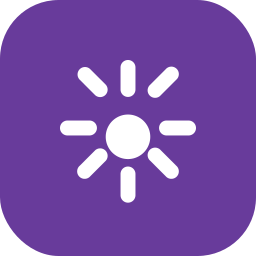
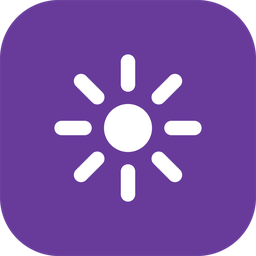
优化图标视觉效果

diff --git a/index.html b/index.html
@@ -5,6 +5,9 @@
   <meta name="viewport" content="width=device-width, initial-scale=1, viewport-fit=cover">
   <meta name="theme-color" content="#100f15">
   <title>YiPop Web · 消灭星星</title>
+  <link rel="icon" href="assets/icon.svg" type="image/svg+xml">
+  <link rel="icon" href="assets/favicon-32.png" type="image/png" sizes="32x32">
+  <link rel="apple-touch-icon" href="assets/apple-touch-icon.png">
   <style>
     * { box-sizing: border-box; }
 
@@ -793,7 +796,7 @@
     <div class="header-inner">
       <div class="brand" aria-label="YiPop Web">
         <div class="brand-mark" aria-hidden="true">
-          <svg class="brand-spark" viewBox="0 0 24 24"><path d="M12 1.8c.62 0 1.12.5 1.12 1.12v3.3a1.12 1.12 0 1 1-2.24 0v-3.3c0-.62.5-1.12 1.12-1.12Zm0 14.86a3.34 3.34 0 1 0 0-6.68 3.34 3.34 0 0 0 0 6.68ZM4.76 3.18a1.12 1.12 0 0 1 1.58 0l2.33 2.33a1.12 1.12 0 0 1-1.58 1.58L4.76 4.76a1.12 1.12 0 0 1 0-1.58Zm12.15 12.15 2.33 2.33a1.12 1.12 0 1 1-1.58 1.58l-2.33-2.33a1.12 1.12 0 1 1 1.58-1.58ZM1.8 12c0-.62.5-1.12 1.12-1.12h3.3a1.12 1.12 0 1 1 0 2.24h-3.3c-.62 0-1.12-.5-1.12-1.12Zm14.86 0c0-.62.5-1.12 1.12-1.12h3.3a1.12 1.12 0 1 1 0 2.24h-3.3c-.62 0-1.12-.5-1.12-1.12ZM7.09 15.33a1.12 1.12 0 0 1 1.58 1.58l-2.33 2.33a1.12 1.12 0 1 1-1.58-1.58l2.33-2.33Zm10.57-12.15a1.12 1.12 0 1 1 1.58 1.58l-2.33 2.33a1.12 1.12 0 1 1-1.58-1.58l2.33-2.33ZM12 17.78c.62 0 1.12.5 1.12 1.12v3.18a1.12 1.12 0 1 1-2.24 0V18.9c0-.62.5-1.12 1.12-1.12Z"/></svg>
+          <svg class="brand-spark" viewBox="15.529 15.529 64.941 64.941" aria-hidden="true"><g fill="none" stroke="currentColor" stroke-width="5.4" stroke-linecap="round"><line x1="64.3" y1="48" x2="72.9" y2="48"/><line x1="59.526" y1="59.526" x2="65.607" y2="65.607"/><line x1="48" y1="64.3" x2="48" y2="72.9"/><line x1="36.474" y1="59.526" x2="30.393" y2="65.607"/><line x1="31.7" y1="48" x2="23.1" y2="48"/><line x1="36.474" y1="36.474" x2="30.393" y2="30.393"/><line x1="48" y1="31.7" x2="48" y2="23.1"/><line x1="59.526" y1="36.474" x2="65.607" y2="30.393"/></g><circle cx="48" cy="48" r="9" fill="currentColor"/></svg>
         </div>
         <div class="brand-copy"><span class="brand-name">YiPop</span><span class="web-badge">Web</span></div>
       </div>

diff --git a/README.md b/README.md
@@ -3,7 +3,7 @@
 <br>
 <br>
 <p align="center">
-  <img src="./assets/icon.png" alt="YiPop Logo" width="96" height="96" onerror="this.style.display='none'"/>
+  <img src="./assets/icon.svg" alt="YiPop Logo" width="96" height="96" onerror="this.style.display='none'"/>
 </p>
 <h1 align="center">YiPop</h1>
 <h3 align="center">A simple and beautiful H5 Popstar.</h3>
